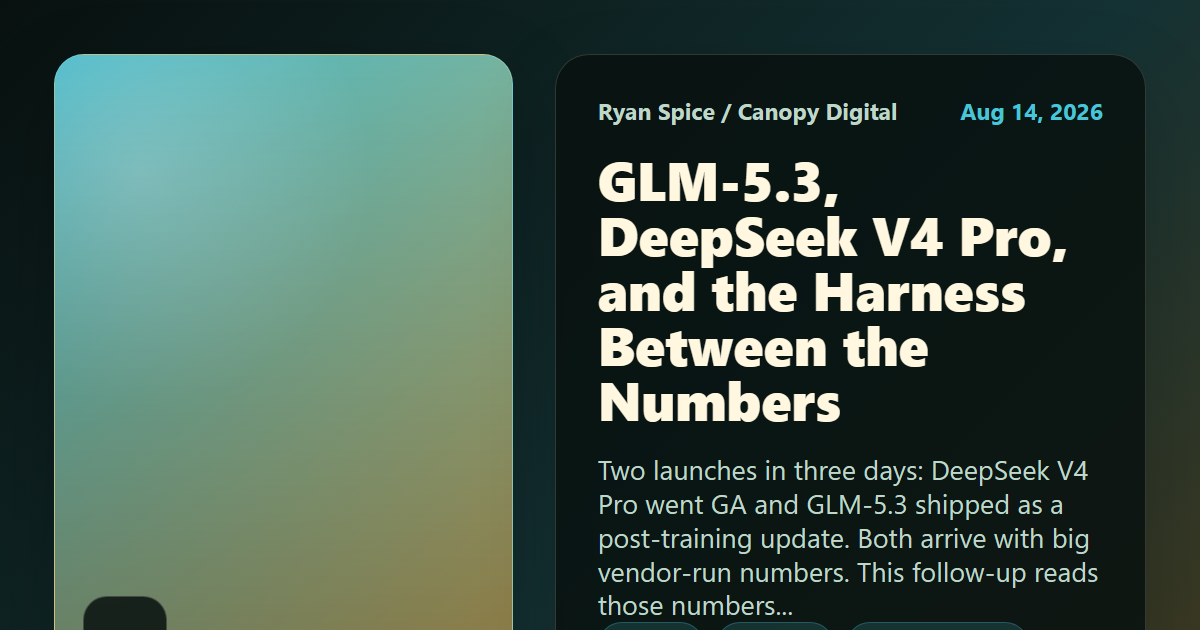
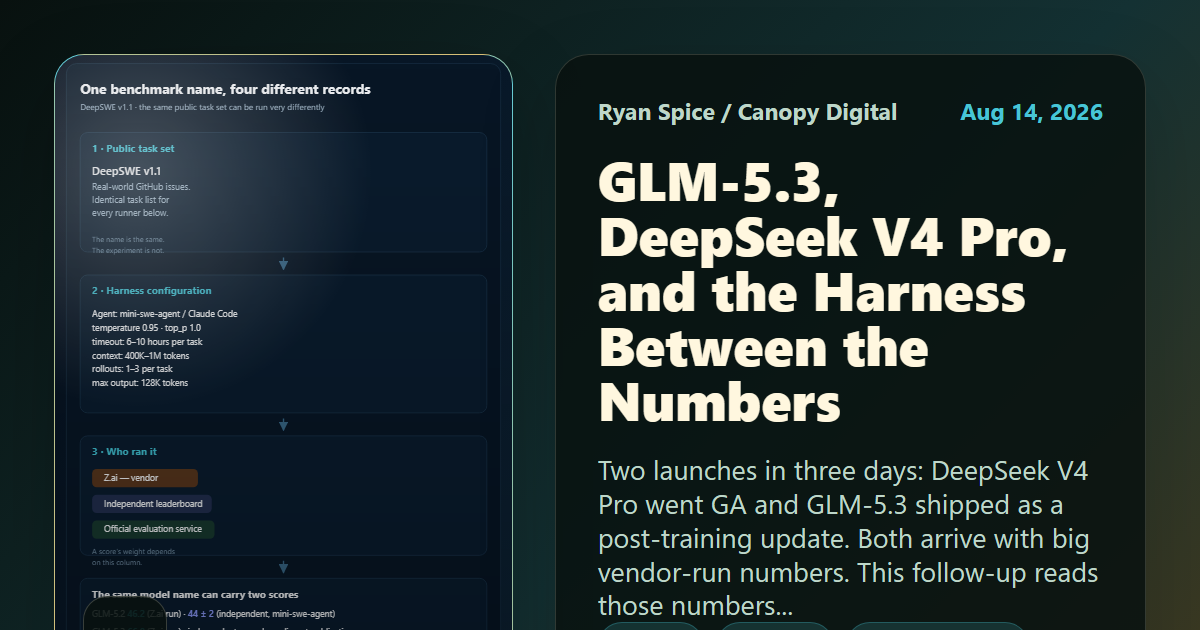
Fix hero images on GLM-5.3 and DeepSeek cheat sheet posts
- harness-decomposition.svg: &nbsp; is an undeclared entity in standalone
  SVG XML; browsers rejected the whole file. Replaced with &#160;.
- New 1024x1536 portrait heroes (harness-decomposition-portrait.svg,
  deployment-paths-portrait.svg) for the article image slot, which renders
  portrait at object-fit: contain.
- ArticleView: generalize the portrait-diagram filename check from the
  mimo-only regex to any *-portrait.(png|svg) so portrait heroes get the
  1024x1536 contain treatment.

diff --git a/src/lib/components/ArticleView.svelte b/src/lib/components/ArticleView.svelte
@@ -45,7 +45,7 @@
 	const articleAccent = $derived(articleAccentColor(article));
 	const focalImage = $derived(articleFocalImage(article));
 	const heroImage = $derived(focalImage ?? articleCardImage(article));
-	const isPortraitDiagram = $derived(Boolean(heroImage?.src.match(/mimo-coding-harness-portrait\.png$/i)));
+	const isPortraitDiagram = $derived(Boolean(heroImage?.src.match(/[\/-]portrait\.(png|svg)$/i)));
 	const previewTransitionName = $derived(articlePreviewTransitionName(article.slug));
 	const titleTransitionName = $derived(articleTitleTransitionName(article.slug));
 	const ui = $derived(getDictionary(article.locale));

diff --git a/src/lib/content/articles/glm-5-3-deepseek-v4-pro-harnesses.md b/src/lib/content/articles/glm-5-3-deepseek-v4-pro-harnesses.md
@@ -12,10 +12,10 @@ release_time: "18:00"
 summary: "Two launches in three days: DeepSeek V4 Pro went GA and GLM-5.3 shipped as a post-training update. Both arrive with big vendor-run numbers. This follow-up reads those numbers through the harness that produced them — and shows why the same benchmark name can mean different experiments."
 seo_description: "A source-checked follow-up to Kingy.ai's GLM-5.3 coverage: what the DeepSWE, Terminal-Bench, and Z.ai Code Bench numbers actually prove once you label the harness and who ran it, plus a launch-day check of where GLM-5.3 is and is not available."
 accent: "#48c5d6"
-image: "/img/articles/glm-5-3-deepseek-v4-pro-harnesses/harness-decomposition.svg"
-image_alt: "Diagram of how the DeepSWE v1.1 public task set flows through different harness configurations and runners, showing the same model name carrying two scores: GLM-5.2 at 46.2 vendor-run and 44 plus or minus 2 independent."
+image: "/img/articles/glm-5-3-deepseek-v4-pro-harnesses/harness-decomposition-portrait.svg"
+image_alt: "Portrait diagram of how the same DeepSWE v1.1 public task set flows through harness configuration and runner choices, carrying two scores for one model name: GLM-5.2 at 46.2 vendor-run and 44 plus or minus 2 independent."
 image_credit: "Original diagram by Ryan Spice"
-image_source: "/img/articles/glm-5-3-deepseek-v4-pro-harnesses/harness-decomposition.svg"
+image_source: "/img/articles/glm-5-3-deepseek-v4-pro-harnesses/harness-decomposition-portrait.svg"
 image_position: "center top"
 row_image: "/img/articles/glm-5-3-deepseek-v4-pro-harnesses/deep-swe-harness-chart.svg"
 row_image_alt: "Bar chart of DeepSWE v1.1 scores labeled with who ran each record: Kimi K3 67.5, GLM-5.3 66.9, DeepSeek V4 Pro 62.7, GLM-5.2 46.2, with an independent mini-swe-agent record of 44 plus or minus 2."

diff --git a/src/lib/content/articles/deepseek-v4-pro-deployment-cheatsheet.md b/src/lib/content/articles/deepseek-v4-pro-deployment-cheatsheet.md
@@ -12,10 +12,10 @@ release_time: "18:00"
 summary: "My personal operating reference for running DeepSeek V4 Pro through agent harnesses: routing policy, integration paths, and the gotchas that cost real money or real time — the temperature rule, the reasoning-content round-trip, and prefix-cache discipline."
 seo_description: "A personal DeepSeek V4 Pro deployment cheat sheet: which model for which job, the Claude Code, Hermes, direct API, and OpenRouter paths, and eleven integration gotchas including thinking-mode temperature and reasoning_content preservation."
 accent: "#8f9fff"
-image: "/img/articles/deepseek-v4-pro-deployment-cheatsheet/deployment-paths.svg"
-image_alt: "Diagram of four DeepSeek V4 Pro integration surfaces — Claude Code, Hermes, direct API, OpenRouter — with a shared rule band: reasoning effort max on agent lanes, thinking enabled, temperature 1.0."
+image: "/img/articles/deepseek-v4-pro-deployment-cheatsheet/deployment-paths-portrait.svg"
+image_alt: "Portrait diagram of four DeepSeek V4 Pro integration surfaces — Claude Code, Hermes, direct API, OpenRouter — with the shared rules: reasoning effort max on agent lanes, thinking enabled, temperature 1.0."
 image_credit: "Original diagram by Ryan Spice"
-image_source: "/img/articles/deepseek-v4-pro-deployment-cheatsheet/deployment-paths.svg"
+image_source: "/img/articles/deepseek-v4-pro-deployment-cheatsheet/deployment-paths-portrait.svg"
 image_position: "center top"
 row_image: "/img/articles/deepseek-v4-pro-deployment-cheatsheet/deployment-paths.svg"
 row_image_alt: "Diagram of four DeepSeek V4 Pro integration surfaces — Claude Code, Hermes, direct API, OpenRouter — with a shared rule band."
